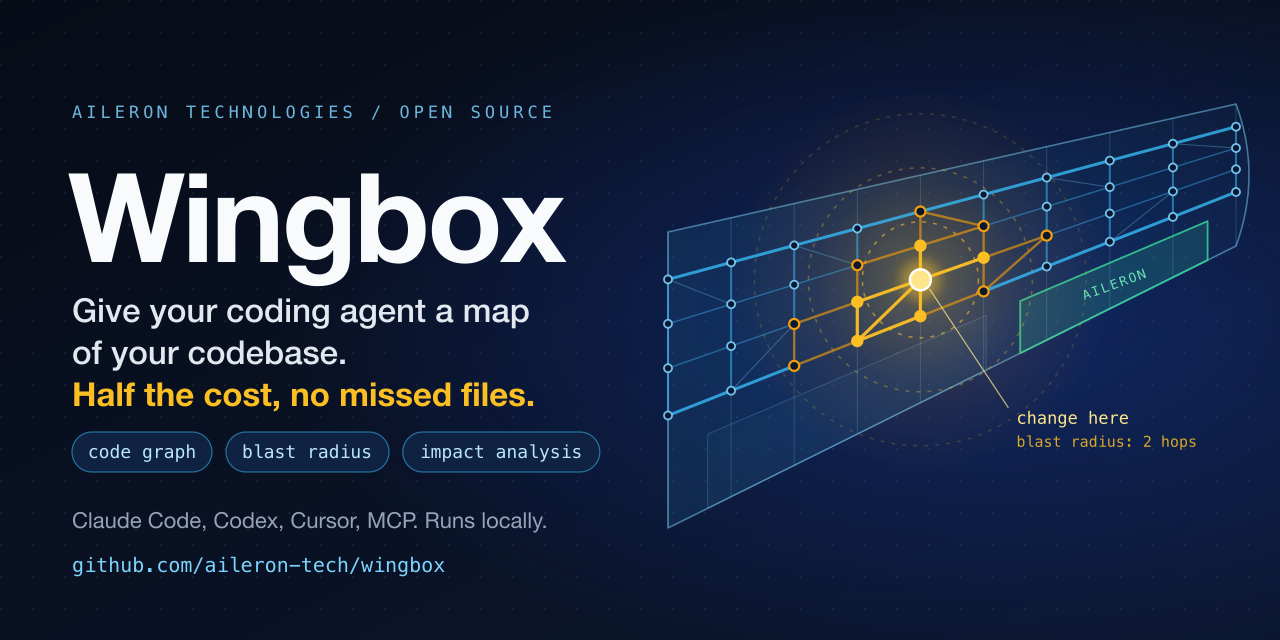
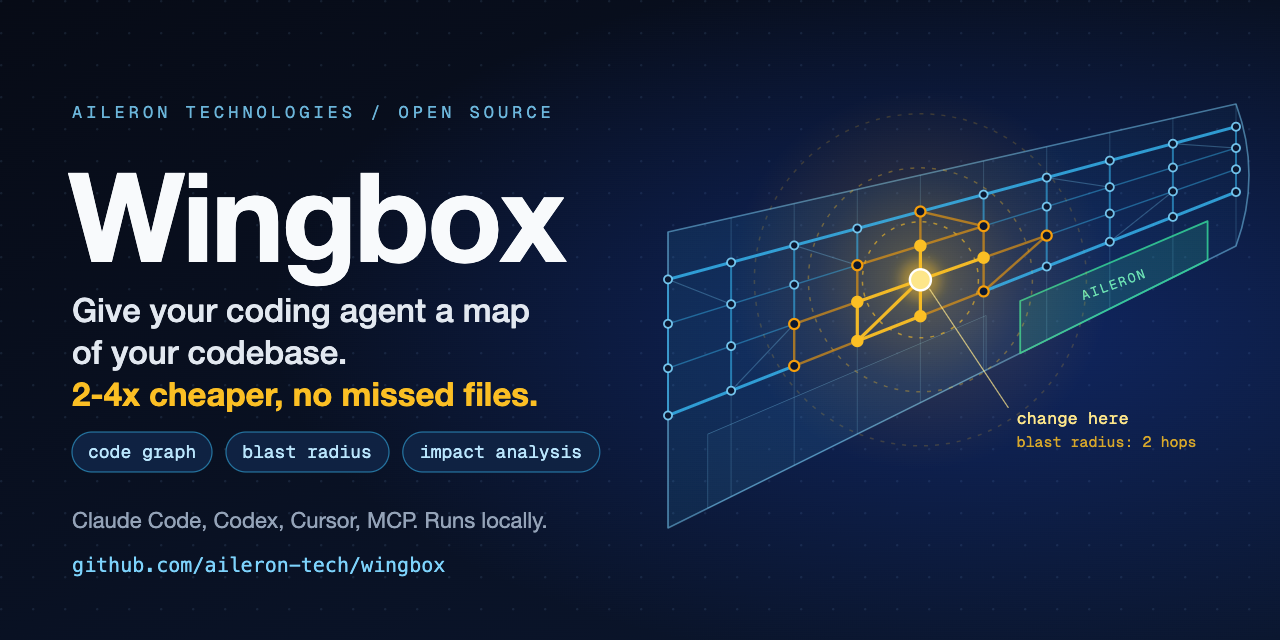
Slogan: "2-4x cheaper, no missed files."
The maintainer's wording, in the README, the store README, the MCP bundle,
the Codex plugin description and the social preview (SVG and PNG). The
README lead links to the comparison benchmark.

diff --git a/tools/build_mcpb.py b/tools/build_mcpb.py
@@ -26,7 +26,7 @@ REPO = Path(__file__).resolve().parents[1]
 ICON = REPO / "plugins" / "wingbox" / "assets" / "icon.png"
 FIXED_TIME = (2026, 1, 1, 0, 0, 0)  # same bytes for the same files
 MANIFEST_VERSION = "0.4"           # the first version with the `uv` server type
-SLOGAN = "Give your coding agent a map of your codebase. Half the cost, no missed files."
+SLOGAN = "Give your coding agent a map of your codebase. 2-4x cheaper, no missed files."
 SHORT_DESCRIPTION = "A map of your codebase for coding agents: what a change touches, where a symbol is used."
 LONG_DESCRIPTION = f"""{SLOGAN}
 

diff --git a/README.md b/README.md
@@ -4,10 +4,10 @@
 
 ![Wingbox: the code graph of a repository drawn as the structure of an aircraft wing, with the blast radius of one change highlighted](https://raw.githubusercontent.com/aileron-tech/wingbox/main/docs/assets/wingbox-social-preview.png)
 
-> **Give your coding agent a map of your codebase. Half the cost, no missed files.**
+> **Give your coding agent a map of your codebase. 2-4x cheaper, no missed files.**
 >
 > Your agent sees every file a change touches before it edits, so it no longer
-> forgets a fix. Half the cost of its own search: [benchmarks](https://github.com/aileron-tech/wingbox/blob/main/benchmarks/impact/README.md).
+> forgets a fix. 2-4x cheaper per answer than its own search or another code-graph tool: [benchmarks](https://github.com/aileron-tech/wingbox/blob/main/benchmarks/graphify/README.md).
 >
 > Wingbox builds a local **code graph** (a code knowledge graph made by static
 > parsing, with no model) of your repository so that AI coding

diff --git a/docs/store/README.md b/docs/store/README.md
@@ -36,7 +36,7 @@ directory (claude.ai, Cowork, Claude Code) and in the OpenAI plugin directory
 
 Long description:
 
-> Give your coding agent a map of your codebase. Half the cost, no missed files.
+> Give your coding agent a map of your codebase. 2-4x cheaper, no missed files.
 > Wingbox builds a graph of the repository you work in and answers from it before the agent reads source
 > files: what a change will break, two hops away and across packages (blast
 > radius); who uses a file, function or type; where a feature is implemented;
